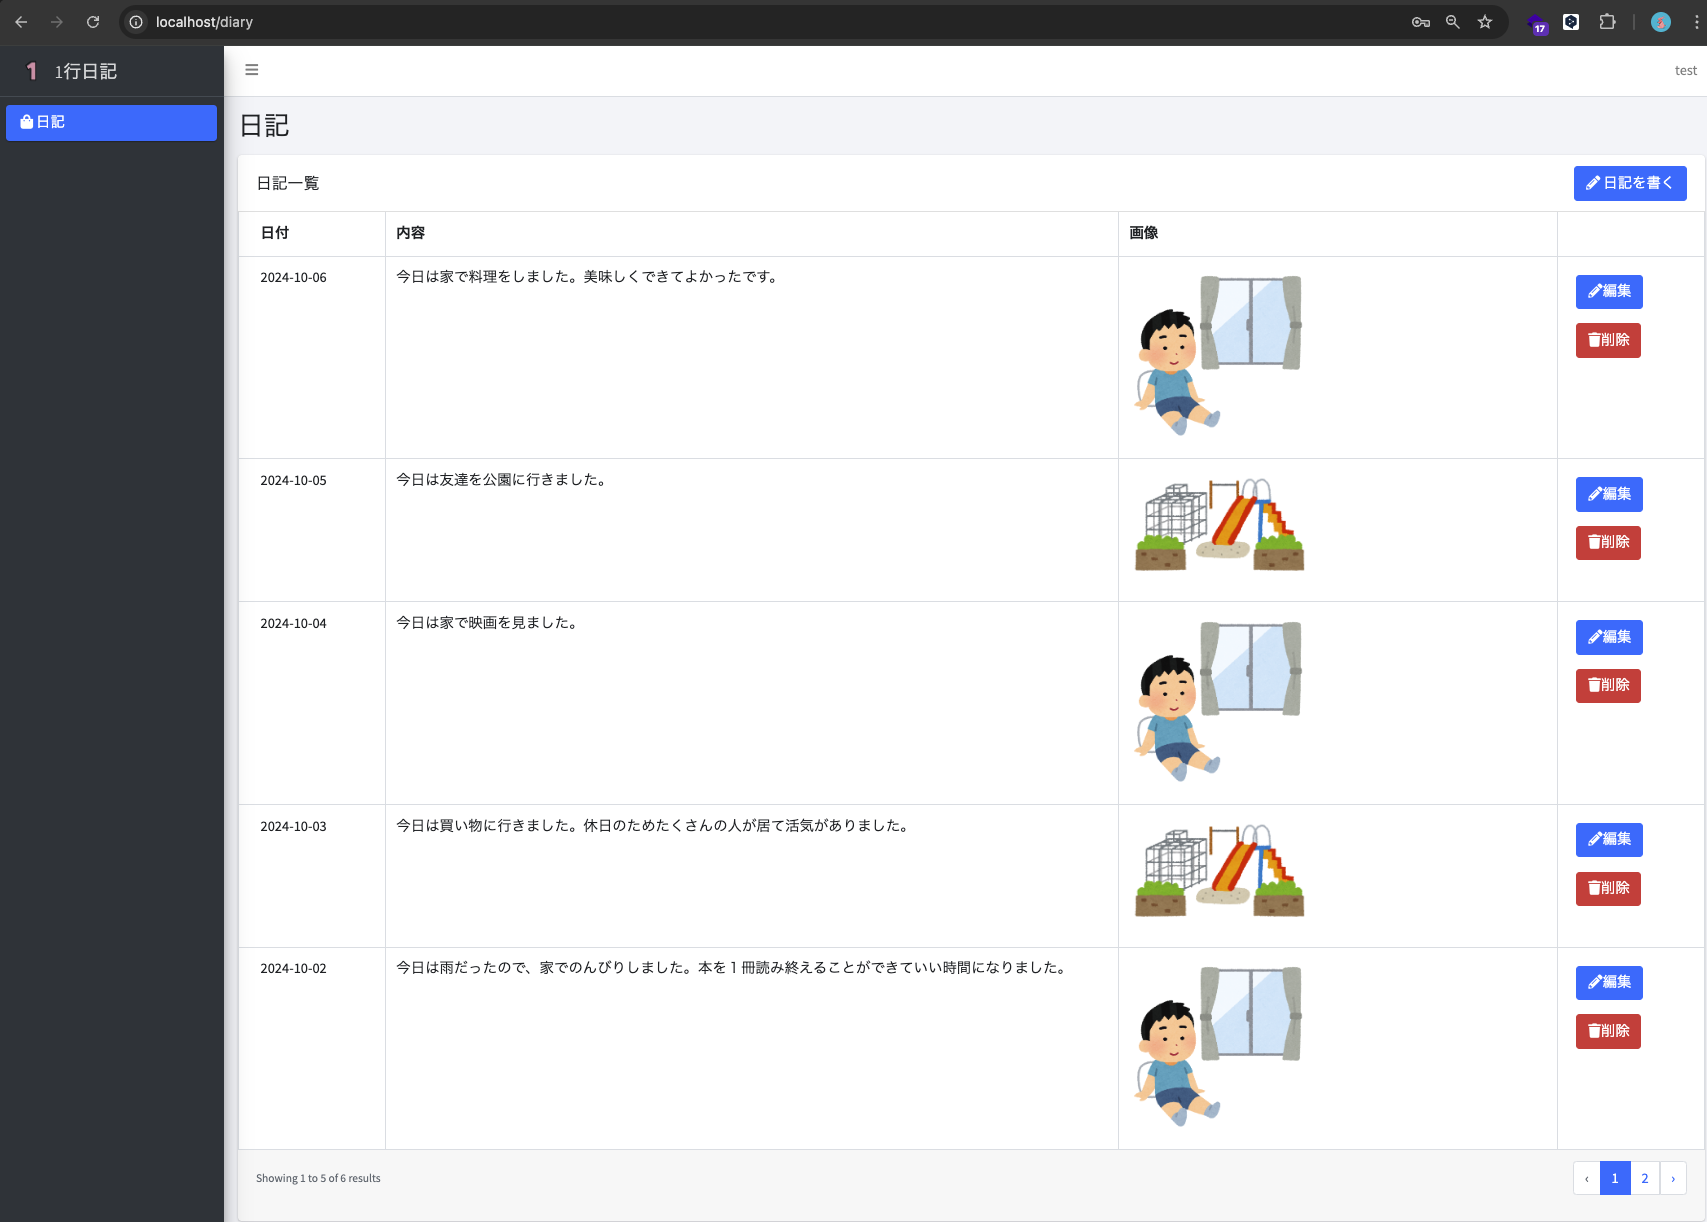
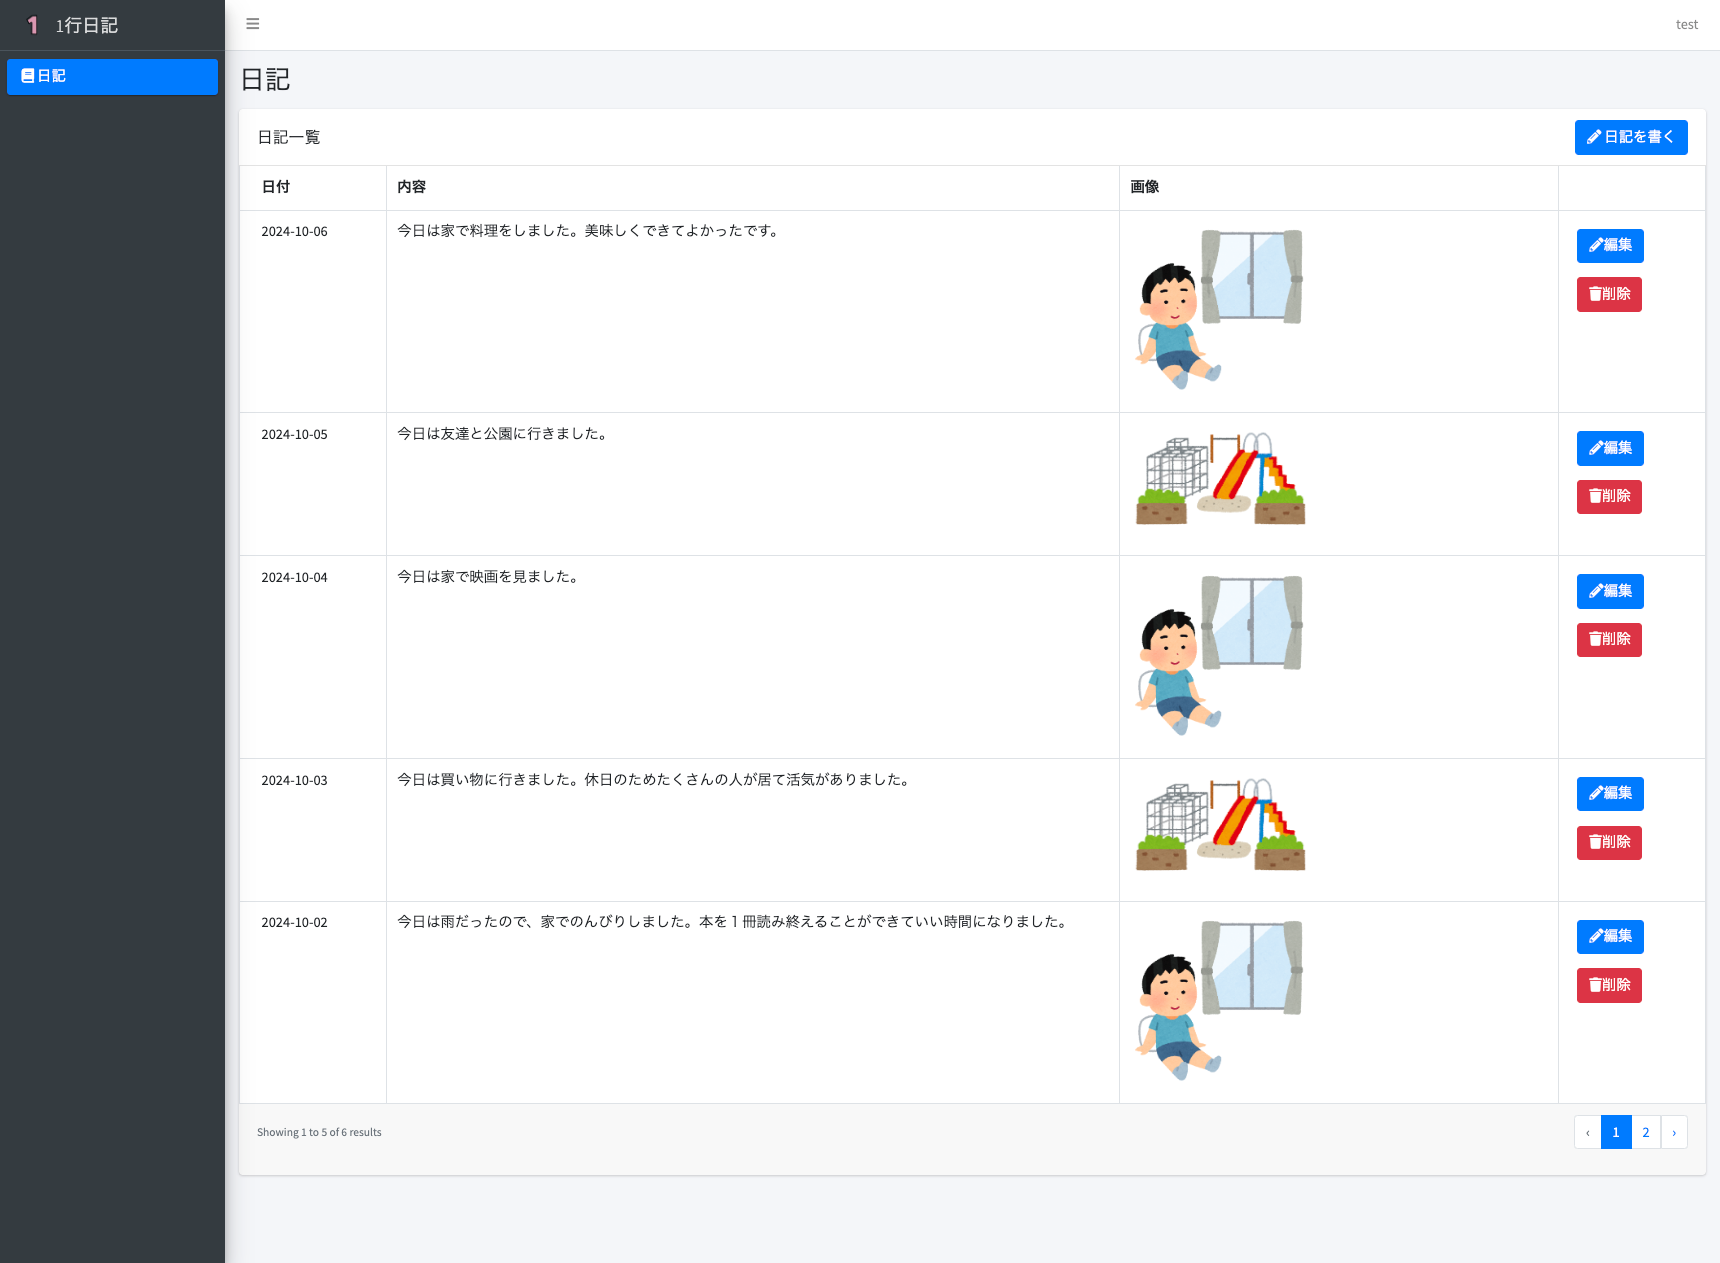
fix

diff --git a/config/adminlte.php b/config/adminlte.php
@@ -311,7 +311,7 @@ return [
         [
             'text' => '日記',
             'url' => '/diary',
-            'icon' => 'fas fa-shopping-bag',
+            'icon' => 'fas fa-book',
         ],
     ],
 
